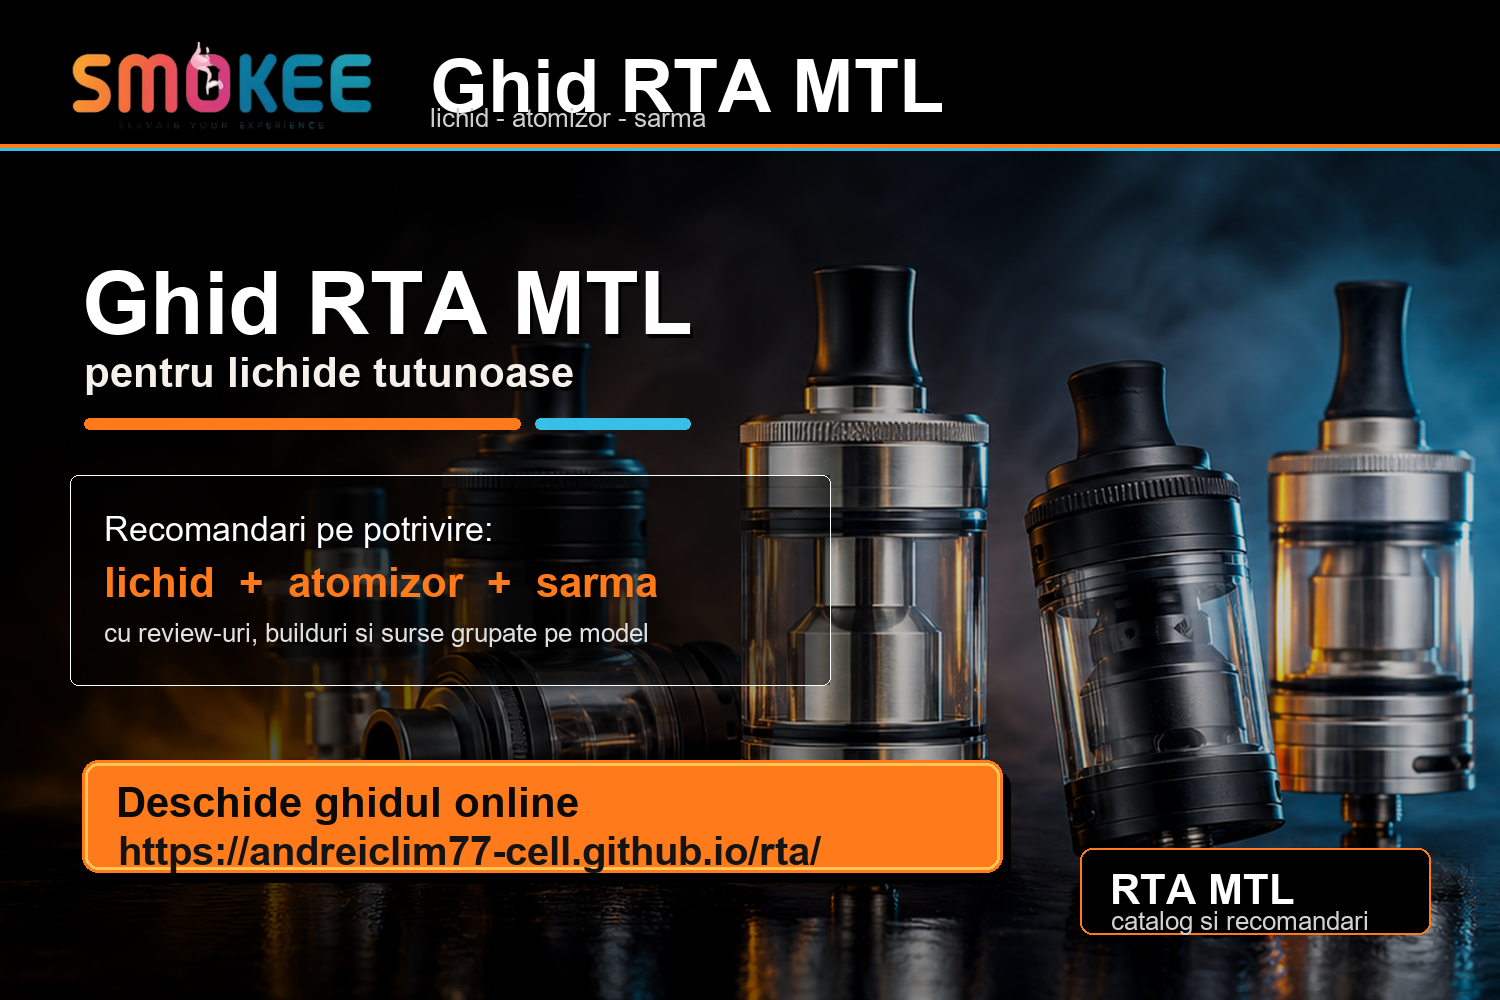
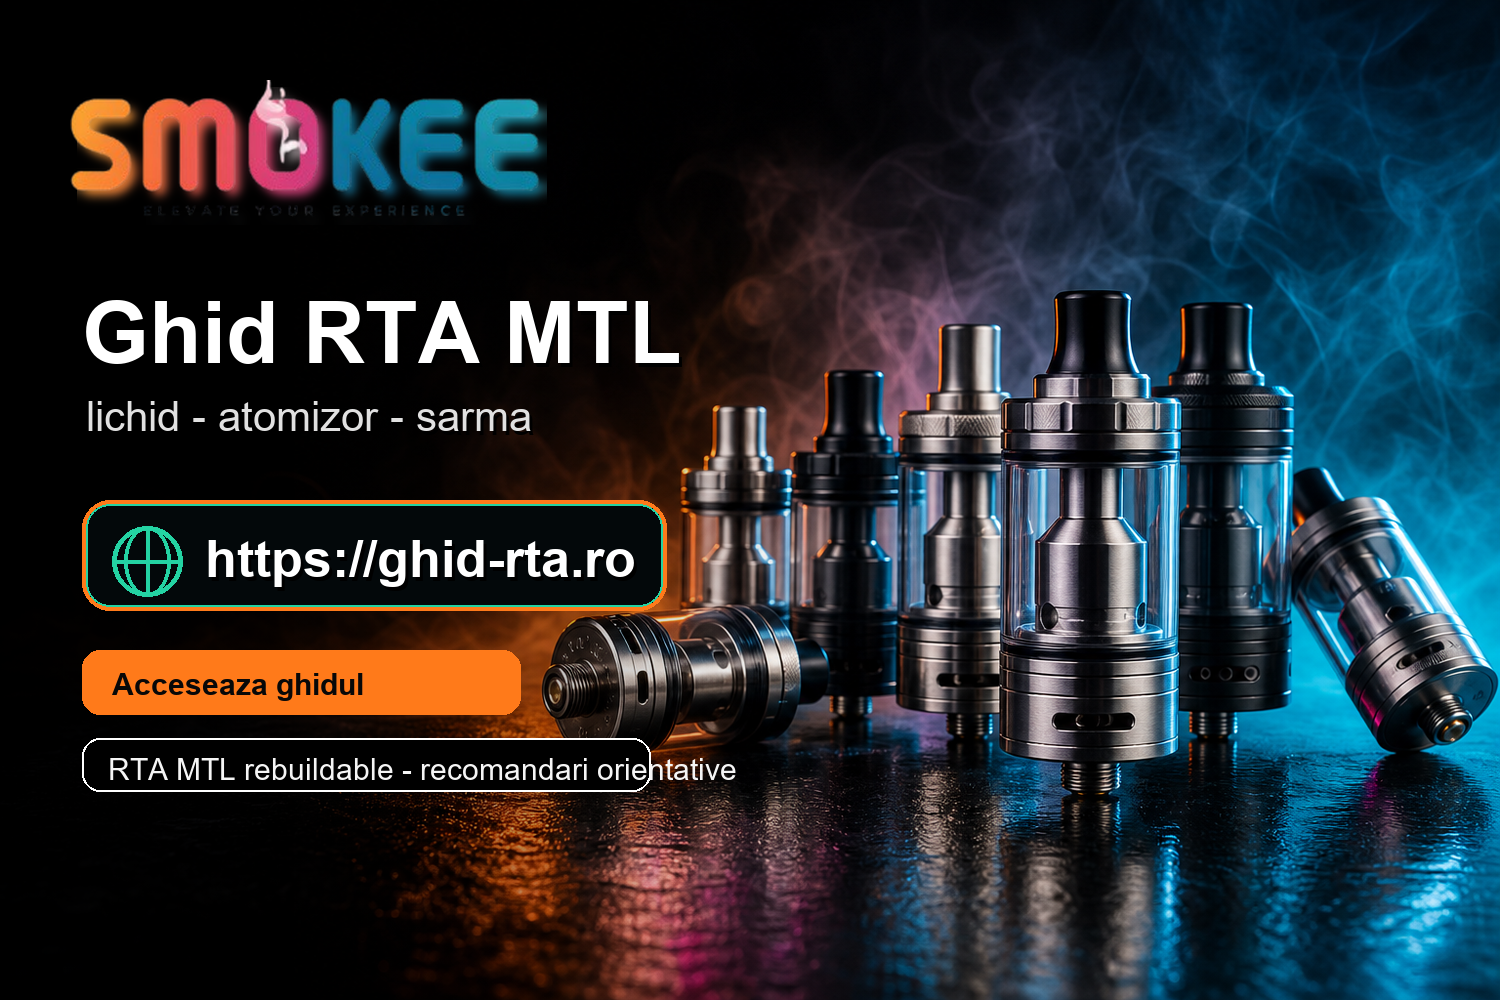
Add age gate and repair music player

diff --git a/index.html b/index.html
@@ -204,13 +204,31 @@ header:before{content:"";display:block;height:3px;background:linear-gradient(90d
 .navbtn[data-tab="liquidGuide"]{--nav-a:#ff8bd5;--nav-b:#37bfe8;--nav-dim:#23101d;--nav-border:rgba(255,139,213,.62);--nav-idle:#fff0fb;--nav-active:#111}
 .navbtn[data-tab="legislativ"]{--nav-a:#ffd166;--nav-b:#ffe89a;--nav-dim:#221708;--nav-border:rgba(255,209,102,.66);--nav-idle:#fff8df;--nav-active:#120b02}
 .navbtn[data-tab="sources"]{--nav-a:#ff4f7b;--nav-b:#ffb000;--nav-dim:#231018;--nav-border:rgba(255,79,123,.62);--nav-idle:#ffeef3;--nav-active:#111}
-.music-mount{position:absolute;left:18px;top:8px;width:96px;z-index:4;border:1px solid rgba(255,122,26,.5);border-radius:7px;background:linear-gradient(180deg,#0c0c0c,#151515);color:#fff;box-shadow:0 8px 18px rgba(0,0,0,.24);overflow:hidden;opacity:.98;pointer-events:auto;transition:.18s ease}
+.age-gated{overflow:hidden}
+.age-gate{position:fixed;inset:0;z-index:9999;display:grid;place-items:center;padding:18px;background:radial-gradient(circle at 75% 25%,rgba(36,211,163,.22),transparent 34%),radial-gradient(circle at 18% 78%,rgba(255,122,26,.24),transparent 36%),linear-gradient(135deg,rgba(0,0,0,.96),rgba(12,12,12,.98));color:#fff}
+.age-gate[hidden]{display:none}
+.age-card{width:min(620px,100%);border:1px solid rgba(255,255,255,.16);border-radius:18px;background:linear-gradient(145deg,rgba(18,18,18,.98),rgba(5,5,5,.96));box-shadow:0 34px 95px rgba(0,0,0,.58),0 0 0 1px rgba(255,122,26,.18) inset;padding:26px;position:relative;overflow:hidden}
+.age-card:before{content:"";position:absolute;inset:0 0 auto;height:5px;background:linear-gradient(90deg,#ff7a1a,#ffb000,#24d3a3,#22a7f2)}
+.age-logo{width:190px;max-width:62vw;display:block;margin:0 0 18px;filter:drop-shadow(0 12px 18px rgba(0,0,0,.4))}
+.age-chip{display:inline-flex;align-items:center;justify-content:center;min-width:72px;height:42px;border-radius:999px;background:linear-gradient(135deg,#ff7a1a,#ffb000);color:#080808;font-weight:1000;font-size:20px;box-shadow:0 12px 28px rgba(255,122,26,.3)}
+.age-card h2{margin:16px 0 10px;font-size:clamp(28px,5vw,44px);line-height:1.02;letter-spacing:0}
+.age-card p{margin:0 0 12px;color:#e9e9e9;font-size:16px;line-height:1.58}
+.age-note{border-left:4px solid #24d3a3;padding:10px 12px;background:rgba(36,211,163,.08);border-radius:10px;color:#f5f5f5}
+.age-actions{display:grid;grid-template-columns:1fr 1fr;gap:10px;margin-top:20px}
+.age-actions button,.age-actions a{min-height:48px;border-radius:13px;border:1px solid rgba(255,255,255,.18);display:flex;align-items:center;justify-content:center;text-align:center;text-decoration:none;font-weight:1000;cursor:pointer;font-size:15px}
+.age-accept{background:linear-gradient(135deg,#ff7a1a,#ffb000);color:#080808;box-shadow:0 14px 26px rgba(255,122,26,.26)}
+.age-exit{background:#101010;color:#fff}
+.age-legal{display:block;margin-top:12px;color:#aaa;font-size:12px;line-height:1.45}
+.music-mount{--yt-scale:.44;position:absolute;left:18px;top:8px;width:106px;z-index:4;border:1px solid rgba(255,122,26,.5);border-radius:7px;background:linear-gradient(180deg,#0c0c0c,#151515);color:#fff;box-shadow:0 8px 18px rgba(0,0,0,.24);overflow:hidden;opacity:.98;pointer-events:auto;transition:.18s ease}
 .music-mount.hidden{display:none}
 .music-head{display:flex;align-items:center;justify-content:space-between;gap:4px;height:16px;padding:2px 4px;background:linear-gradient(90deg,#ff7a1a,#24d3a3);color:#080808}
 .music-head a{color:#080808;text-decoration:none;font-size:9px;font-weight:950;line-height:1}
 .music-close{width:13px;height:13px;border:0;border-radius:50%;background:rgba(0,0,0,.16);color:#080808;font-weight:900;cursor:pointer;line-height:1;font-size:8px;padding:0}
-.music-frame{background:#000;height:36px}
-.music-frame iframe{display:block;width:100%;height:100%;border:0}
+.music-frame{position:relative;background:#000;height:55px;overflow:hidden}
+.music-frame iframe{display:block;width:240px;height:135px;border:0;transform:scale(var(--yt-scale));transform-origin:0 0}
+.music-hit{position:absolute;inset:0;display:block;text-indent:-999px;overflow:hidden}
+.music-hit:after{content:"";position:absolute;left:50%;top:50%;width:18px;height:18px;transform:translate(-50%,-50%);border-radius:50%;background:rgba(255,122,26,.88);box-shadow:0 0 16px rgba(255,122,26,.45)}
+.music-hit:before{content:"";position:absolute;left:50%;top:50%;z-index:1;transform:translate(-35%,-50%);border-left:7px solid #080808;border-top:5px solid transparent;border-bottom:5px solid transparent}
 .music-tools{display:none}
 .music-tools input{min-width:0;border:1px solid #3a3a3a;border-radius:999px;background:#fff;color:#111;padding:7px 8px;font:inherit;font-size:12px}
 .music-tools button,.music-actions a,.music-actions button{border:1px solid #3a3a3a;border-radius:999px;background:#242424;color:#fff;padding:6px 8px;font-weight:900;font-size:11px;cursor:pointer;text-decoration:none}
@@ -681,12 +699,28 @@ header{box-shadow:0 10px 30px rgba(0,0,0,.24)}
 @media(max-width:640px){.atom-card .fit-strip,.result-card .fit-strip{grid-template-columns:1fr}.fit-item b,.fit-item span{overflow-wrap:anywhere}.card:hover,.consumable-zone:hover,.detail-block:hover{transform:none}}
 @media(max-width:380px){.wrap{padding:0 9px}.wrap.nav{padding:7px 9px 8px}.smokee-logo{width:84px}.brand b{font-size:11px;max-width:calc(100vw - 116px)}.navlinks{margin:0 -9px;padding-left:9px;padding-right:9px}.navbtn{font-size:11px;padding:7px 8px}.problem-grid,.role-tabs,.category-list,.calc-examples{grid-template-columns:1fr}.source-actions{grid-template-columns:1fr}.shop-hero h1{font-size:25px}.shop-hero-content{padding:14px}.btn{padding:8px}.card{padding:11px}.cat-mark{width:24px;height:24px}.category-link{font-size:14px}}
 @media(max-width:340px){.hero-actions{grid-template-columns:1fr}.shop-hero h1{font-size:23px}.lead{font-size:14px}}
-@media(max-width:900px){.nav{grid-template-columns:1fr;align-items:stretch;padding-left:112px}.music-mount{left:10px;top:7px;width:86px}.brand,.site-search,.head-tools,.navlinks{grid-column:auto}.site-search,.head-tools,.navlinks{grid-column:1/-1}.navlinks{width:auto;margin-left:0}}
-@media(max-width:640px){.wrap.nav{grid-template-columns:auto minmax(0,1fr);align-items:center;padding:4px 8px 5px 56px;gap:4px 6px;overflow:visible}.music-mount{left:6px;top:6px;width:43px;border-radius:6px}.music-head{height:12px;padding:1px 3px}.music-head a{font-size:0}.music-head a:before{content:"YT";font-size:7px}.music-close{width:10px;height:10px;font-size:7px}.music-frame{height:21px}.music-frame iframe{height:21px;min-height:0}.music-tools,.music-actions{display:none}.brand{min-width:0}.brand-top{gap:0}.brand b{display:none}.smokee-logo{width:64px}.site-search{grid-column:auto;height:31px;padding:0 8px}.search-icon{width:14px;height:14px}.site-search input{height:29px;font-size:12px}.navlinks{grid-column:1/-1;margin:0 -8px 0 -56px;padding:3px 8px 0;border-top:0;gap:6px;overflow-x:auto;overflow-y:hidden;scrollbar-width:none;-webkit-overflow-scrolling:touch}.navlinks::-webkit-scrollbar{display:none}.navbtn{min-height:30px;padding:6px 9px;font-size:12px;line-height:1.12}.hero-actions .btn{min-height:44px;padding:9px 10px;font-size:13px;line-height:1.18}.shop-metrics{grid-template-columns:1fr}.shop-metrics .metric{min-height:88px;grid-template-columns:1fr auto;align-items:center}.shop-metrics .metric strong{font-size:30px}.liquid-subfilters{gap:6px}.liquid-subfilters button{padding:7px 8px;font-size:11px}}
-@media(max-width:380px){.wrap.nav{padding-left:52px;gap:4px}.music-mount{left:6px;width:40px}.music-frame{height:20px}.smokee-logo{width:58px}.navlinks{margin-left:-52px}.navbtn{padding:6px 8px;font-size:11px}.music-head a{font-size:0}.music-head a:before{content:"YT";font-size:7px}}
+@media(max-width:900px){.nav{grid-template-columns:1fr;align-items:stretch;padding-left:112px}.music-mount{left:10px;top:7px;width:86px;--yt-scale:.36}.music-frame{height:45px}.brand,.site-search,.head-tools,.navlinks{grid-column:auto}.site-search,.head-tools,.navlinks{grid-column:1/-1}.navlinks{width:auto;margin-left:0}}
+@media(max-width:640px){.wrap.nav{grid-template-columns:auto minmax(0,1fr);align-items:center;padding:4px 8px 5px 62px;gap:4px 6px;overflow:visible}.music-mount{left:6px;top:6px;width:50px;--yt-scale:.21;border-radius:6px}.music-head{height:12px;padding:1px 3px}.music-head a{font-size:0}.music-head a:before{content:"YT";font-size:7px}.music-close{width:10px;height:10px;font-size:7px}.music-frame{height:28px}.music-hit:after{width:15px;height:15px}.music-hit:before{border-left-width:6px;border-top-width:4px;border-bottom-width:4px}.music-tools,.music-actions{display:none}.brand{min-width:0}.brand-top{gap:0}.brand b{display:none}.smokee-logo{width:64px}.site-search{grid-column:auto;height:31px;padding:0 8px}.search-icon{width:14px;height:14px}.site-search input{height:29px;font-size:12px}.navlinks{grid-column:1/-1;margin:0 -8px 0 -62px;padding:3px 8px 0;border-top:0;gap:6px;overflow-x:auto;overflow-y:hidden;scrollbar-width:none;-webkit-overflow-scrolling:touch}.navlinks::-webkit-scrollbar{display:none}.navbtn{min-height:30px;padding:6px 9px;font-size:12px;line-height:1.12}.hero-actions .btn{min-height:44px;padding:9px 10px;font-size:13px;line-height:1.18}.shop-metrics{grid-template-columns:1fr}.shop-metrics .metric{min-height:88px;grid-template-columns:1fr auto;align-items:center}.shop-metrics .metric strong{font-size:30px}.liquid-subfilters{gap:6px}.liquid-subfilters button{padding:7px 8px;font-size:11px}}
+@media(max-width:640px){.age-gate{padding:12px}.age-card{padding:20px 16px;border-radius:15px}.age-logo{width:150px;margin-bottom:14px}.age-chip{height:38px;min-width:66px;font-size:18px}.age-card h2{font-size:30px}.age-card p{font-size:14px;line-height:1.5}.age-actions{grid-template-columns:1fr}.age-actions button,.age-actions a{min-height:46px}}
+@media(max-width:380px){.wrap.nav{padding-left:58px;gap:4px}.music-mount{left:6px;width:47px;--yt-scale:.195}.music-frame{height:26px}.smokee-logo{width:58px}.navlinks{margin-left:-58px}.navbtn{padding:6px 8px;font-size:11px}.music-head a{font-size:0}.music-head a:before{content:"YT";font-size:7px}}
 </style>
 </head>
-<body>
+<body class="age-gated">
+<div class="age-gate" id="ageGate" role="dialog" aria-modal="true" aria-labelledby="ageGateTitle" aria-describedby="ageGateText">
+  <section class="age-card">
+    <img class="age-logo" src="assets/smokee-logo-official.png" alt="Smokee">
+    <span class="age-chip">18+</span>
+    <h2 id="ageGateTitle">Acces exclusiv persoanelor majore</h2>
+    <p id="ageGateText">Acest site contine informatii despre tigari electronice, atomizoare RTA, lichide si produse destinate exclusiv persoanelor care au implinit varsta de 18 ani.</p>
+    <p class="age-note">Produsele care contin nicotina pot crea dependenta si nu sunt recomandate minorilor, nefumatorilor, femeilor insarcinate sau care alapteaza.</p>
+    <p>Prin continuarea navigarii confirmati ca aveti cel putin 18 ani si accesati continutul in scop informativ si orientativ.</p>
+    <div class="age-actions">
+      <button class="age-accept" id="ageAccept" type="button">Confirm ca am 18 ani</button>
+      <a class="age-exit" id="ageExit" href="https://www.google.com/" rel="noreferrer">Nu am 18 ani</a>
+    </div>
+    <small class="age-legal">Daca nu ati implinit 18 ani, parasiti aceasta pagina. Continutul nu reprezinta recomandare medicala si nu incurajeaza utilizarea produselor cu nicotina.</small>
+  </section>
+</div>
 <header>
   <div class="wrap nav">
     <div class="music-mount" id="musicMount" aria-hidden="false">
@@ -2336,22 +2370,42 @@ function openAtomDetail(index){var a=atomizers[parseInt(index,10)];if(!a)return;
 function closeAtomDetail(){var overlay=$('atomDetail');if(!overlay)return;overlay.classList.remove('active');overlay.setAttribute('aria-hidden','true')}
 function initDetail(){document.addEventListener('click',function(e){var b=e.target.closest('[data-detail-index]');if(b){openAtomDetail(b.dataset.detailIndex);return}if(e.target.matches('.close-detail')||e.target.id==='atomDetail')closeAtomDetail()});document.addEventListener('keydown',function(e){if(e.key==='Escape')closeAtomDetail()})}
 function initVisitCounter(){var img=$('visitCounter');if(!img)return;var box=img.closest('.visit-counter');img.onerror=function(){if(box)box.style.display='none'};img.onload=function(){if(box)box.style.display='inline-flex'};img.src=img.dataset.src}
+function initAgeGate(){
+  var gate=$('ageGate');
+  var accept=$('ageAccept');
+  if(!gate)return;
+  var key='ghidRtaAgeConfirmed';
+  function stored(){
+    try{return localStorage.getItem(key)==='yes'}catch(e){return false}
+  }
+  function unlock(){
+    gate.hidden=true;
+    document.body.classList.remove('age-gated');
+    try{localStorage.setItem(key,'yes')}catch(e){}
+  }
+  if(stored()){unlock();return}
+  gate.hidden=false;
+  document.body.classList.add('age-gated');
+  if(accept)accept.addEventListener('click',unlock);
+  setTimeout(function(){if(accept)accept.focus()},80);
+}
 var MUSIC_VIDEO_ID='shBOxW0bEJo';
+var MUSIC_WATCH_URL='https://www.youtube.com/watch?v='+MUSIC_VIDEO_ID+'&list=RD'+MUSIC_VIDEO_ID+'&start_radio=1';
 var musicUserStarted=false;
 var musicPlaying=false;
 function musicSrc(play){
   var params=[
     'autoplay='+(play?'1':'0'),
+    'mute=1',
     'loop=1',
     'playlist='+MUSIC_VIDEO_ID,
     'controls=1',
     'playsinline=1',
     'enablejsapi=1',
-    'mute=0',
     'rel=0',
-    'origin='+encodeURIComponent(location.origin)
+    'modestbranding=1'
   ];
-  return 'https://www.youtube.com/embed/'+MUSIC_VIDEO_ID+'?'+params.join('&');
+  return 'https://www.youtube-nocookie.com/embed/'+MUSIC_VIDEO_ID+'?'+params.join('&');
 }
 function setMusicButton(active,label){
   musicPlaying=!!active;
@@ -2364,7 +2418,7 @@ function setMusicButton(active,label){
 function mountMusic(play){
   var frame=$('musicFrame');
   if(!frame)return;
-  frame.innerHTML=play?'<iframe title="Muzica fundal YouTube" allow="autoplay; encrypted-media" referrerpolicy="strict-origin-when-cross-origin" src="'+esc(musicSrc(true))+'"></iframe>':'';
+  frame.innerHTML=play?'<iframe title="Muzica fundal YouTube" allow="autoplay; encrypted-media; picture-in-picture; web-share" allowfullscreen referrerpolicy="strict-origin-when-cross-origin" src="'+esc(musicSrc(true))+'"></iframe><a class="music-hit" target="_blank" rel="noreferrer" href="'+esc(MUSIC_WATCH_URL)+'">Deschide muzica pe YouTube</a>':'';
 }
 function showMusicPanel(open){
   var mount=$('musicMount');
@@ -2704,7 +2758,7 @@ function initLiquidCalculator(){
   document.querySelectorAll('[data-mix-ratio]').forEach(function(btn){btn.addEventListener('click',function(){if($('mixTargetVg'))$('mixTargetVg').value=btn.dataset.mixRatio;calcLiquidRecipe()})});
   calcLiquidRecipe();
 }
-function init(){initVisitCounter();initMusic();initNav();initGlobalSearch();initDetail();initLiquidCalculator();initLiquidCatalog();initConsumables();renderMetrics();renderRoleMini();initRecommender();renderAtomizers();renderProfiles();renderWires();renderSources();applyRoute(false)}
+function init(){initAgeGate();initVisitCounter();initMusic();initNav();initGlobalSearch();initDetail();initLiquidCalculator();initLiquidCatalog();initConsumables();renderMetrics();renderRoleMini();initRecommender();renderAtomizers();renderProfiles();renderWires();renderSources();applyRoute(false)}
 
 function renderMetrics(){var src=atomizers.reduce(function(n,a){return n+getSources(a).length},0);$('metricsBox').innerHTML = [
   ['Atomizoare', atomizers.length, 'modele analizate', 'atomizers'],